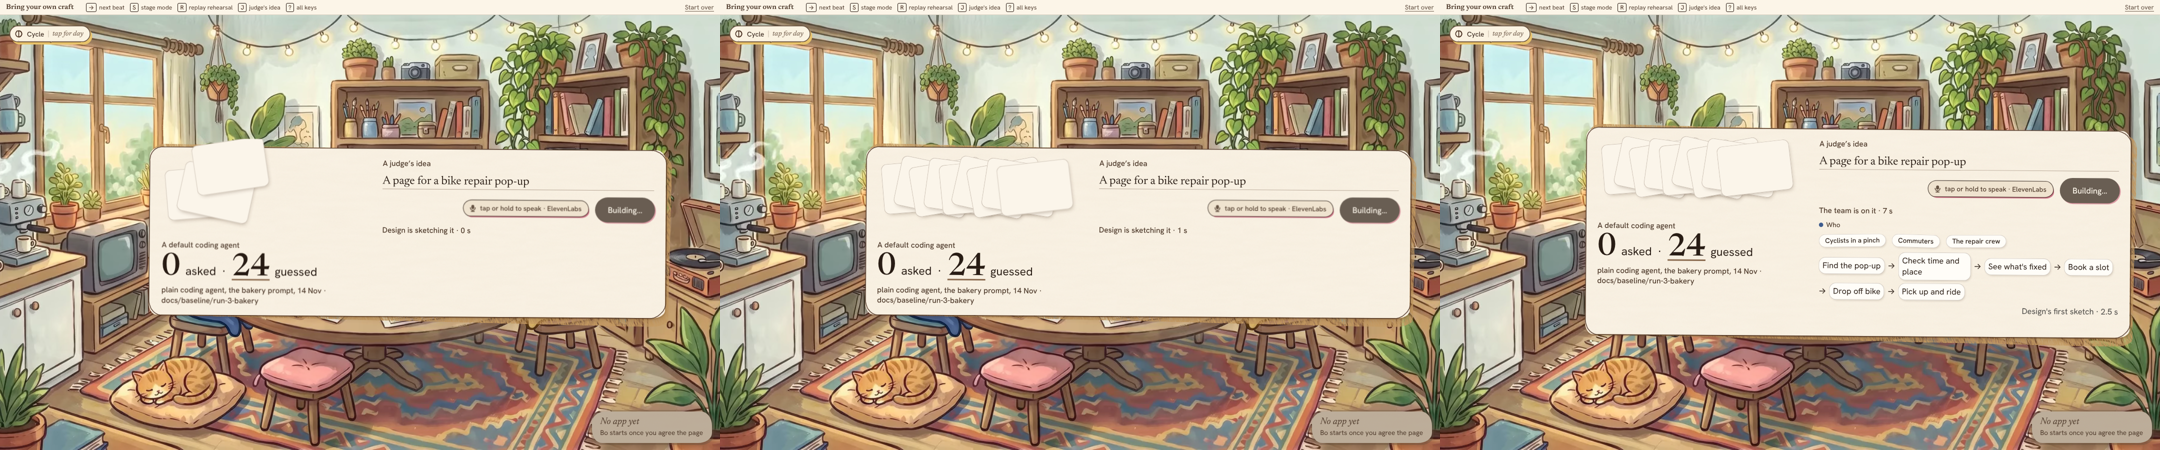
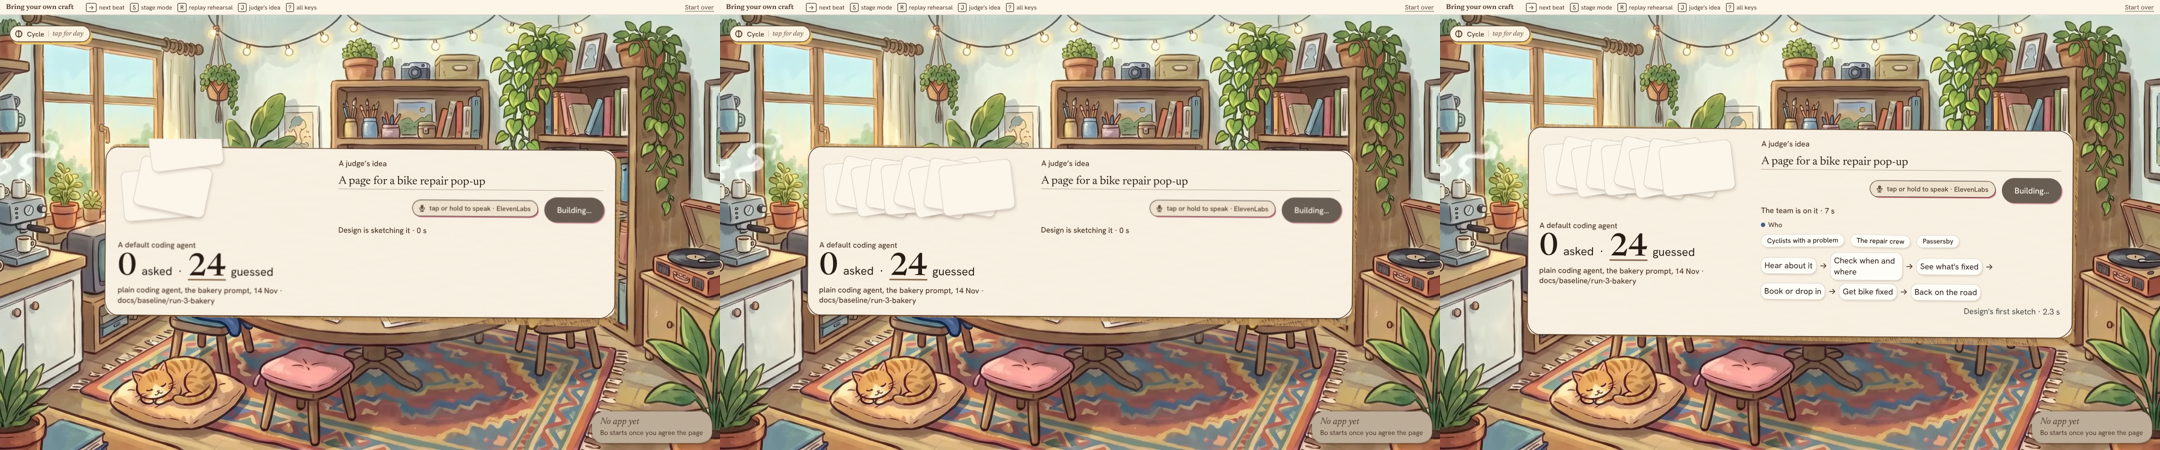
Painted look: the close stays centred when it opens out on Build it

diff --git a/public/looks/painted-fixes.css b/public/looks/painted-fixes.css
@@ -132,6 +132,7 @@ html body #room [data-component="owner-task"] [data-slot="title"], html body .re
 /* the close, asking: the sheet hugs its one column (the idea, the mic, Build it) instead of a 1130 px sheet with a
    blank band either side; centred in the room, and on Build it the sheet opens out to make room for the contrast */
 html body #room [data-component="close-view"] { transition: left 460ms cubic-bezier(.2,.8,.2,1), width 460ms cubic-bezier(.2,.8,.2,1); }
-html body #room [data-component="close-view"][data-state="asking"] { width: 812px; left: calc(50% - 406px + var(--crop-x, 0px)); } /* + crop-x: the cover block above pulls the sheet left by it */
+html body #room [data-component="close-view"]:not([hidden]) { left: calc(50% - 565px + var(--crop-x, 0px)); } /* centred in the visible room; + crop-x: the cover block above pulls the sheet left by it */
+html body #room [data-component="close-view"][data-state="asking"] { width: 812px; left: calc(50% - 406px + var(--crop-x, 0px)); }
 html body #room [data-component="close-view"][data-state="asking"] > :last-child { width: 100%; }
 @media (prefers-reduced-motion: reduce) { html body #room [data-component="close-view"] { transition: none; } }

diff --git a/design/studio/evidence/close-centre/EVIDENCE.md b/design/studio/evidence/close-centre/EVIDENCE.md
@@ -6,3 +6,7 @@ visible room (`50% + --crop-x`), and on Build it it opens out over 460 ms to the
 Sheet centre measured: 1920 → 960, 1440 → 720, 1280 → 640 (= the window centre). Reduced motion: no transition.
 Shots: asking-1920/1440/1280.png, build-it-opens-1440.png (150 ms, 400 ms, 6 s).
 Tests: E2E_LOOK=painted inputs.e2e 6/0; beats.e2e (see commit). Not checked: night, the replay (R/C) path.
+
+Update: the opened-out sheet is centred too (it used to land off-centre at 1440: 288 px left, 57 px right). Final sheet
+after Build it: 1920 → 280–1640, 1440 → 172–1268, 1280 → 115–1165 (centres 960 / 720 / 640). build-it-opens-1440.png
+re-shot (150 ms, 400 ms, 6 s).
